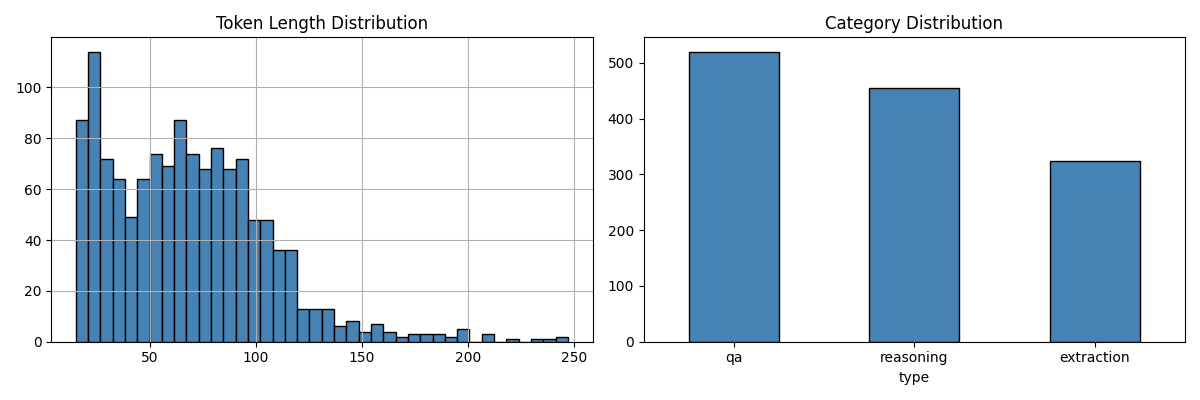
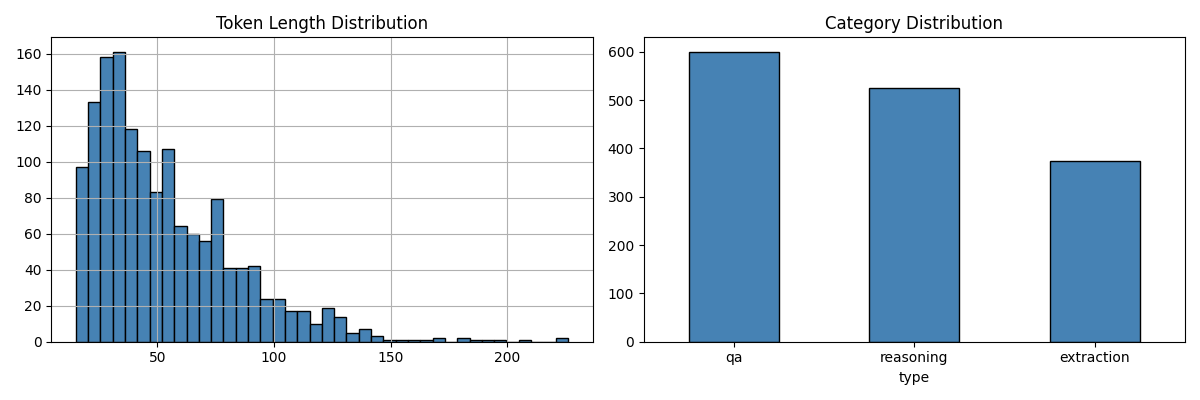
Day-1 Done

diff --git a/Week_8_Fine-Tuning/utils/data_cleaner.py b/Week_8_Fine-Tuning/utils/data_cleaner.py
@@ -9,14 +9,15 @@ from datasets import load_dataset
 SEED = 42
 MIN_TOKENS = 15
 MAX_TOKENS = 256
-OUTPUT_DIR = "data"
+DATA_DIR = "data"
+OUTPUTS_DIR = "output"
 SAMPLE_SIZE = {"qa": 600, "reasoning": 525, "extraction": 375}
 
 
 logging.basicConfig(
     level=logging.INFO,
     format="%(asctime)s | %(message)s",
-    handlers=[logging.FileHandler("data_cleaner.log"), logging.StreamHandler()],
+    handlers=[logging.FileHandler("logs/data_cleaner.log"), logging.StreamHandler()],
 )
 log = logging.getLogger(__name__)
 
@@ -126,8 +127,8 @@ def plot_analysis(df):
     axes[1].tick_params(axis="x", rotation=0)
 
     plt.tight_layout()
-    plt.savefig(f"{OUTPUT_DIR}/analysis.png")
-    log.info(f"graph saved → {OUTPUT_DIR}/analysis.png")
+    plt.savefig(f"{OUTPUTS_DIR}/analysis.png")
+    log.info(f"graph saved → {OUTPUTS_DIR}/analysis.png")
 
 
 # run the full pipeline
@@ -141,9 +142,9 @@ def main():
     train_df = df[:split]
     val_df = df[split:]
 
-    os.makedirs(OUTPUT_DIR, exist_ok=True)
-    save_jsonl(train_df, f"{OUTPUT_DIR}/train.jsonl")
-    save_jsonl(val_df, f"{OUTPUT_DIR}/val.jsonl")
+    os.makedirs(DATA_DIR, exist_ok=True)
+    save_jsonl(train_df, f"{DATA_DIR}/train.jsonl")
+    save_jsonl(val_df, f"{DATA_DIR}/val.jsonl")
     plot_analysis(df)
 
 
